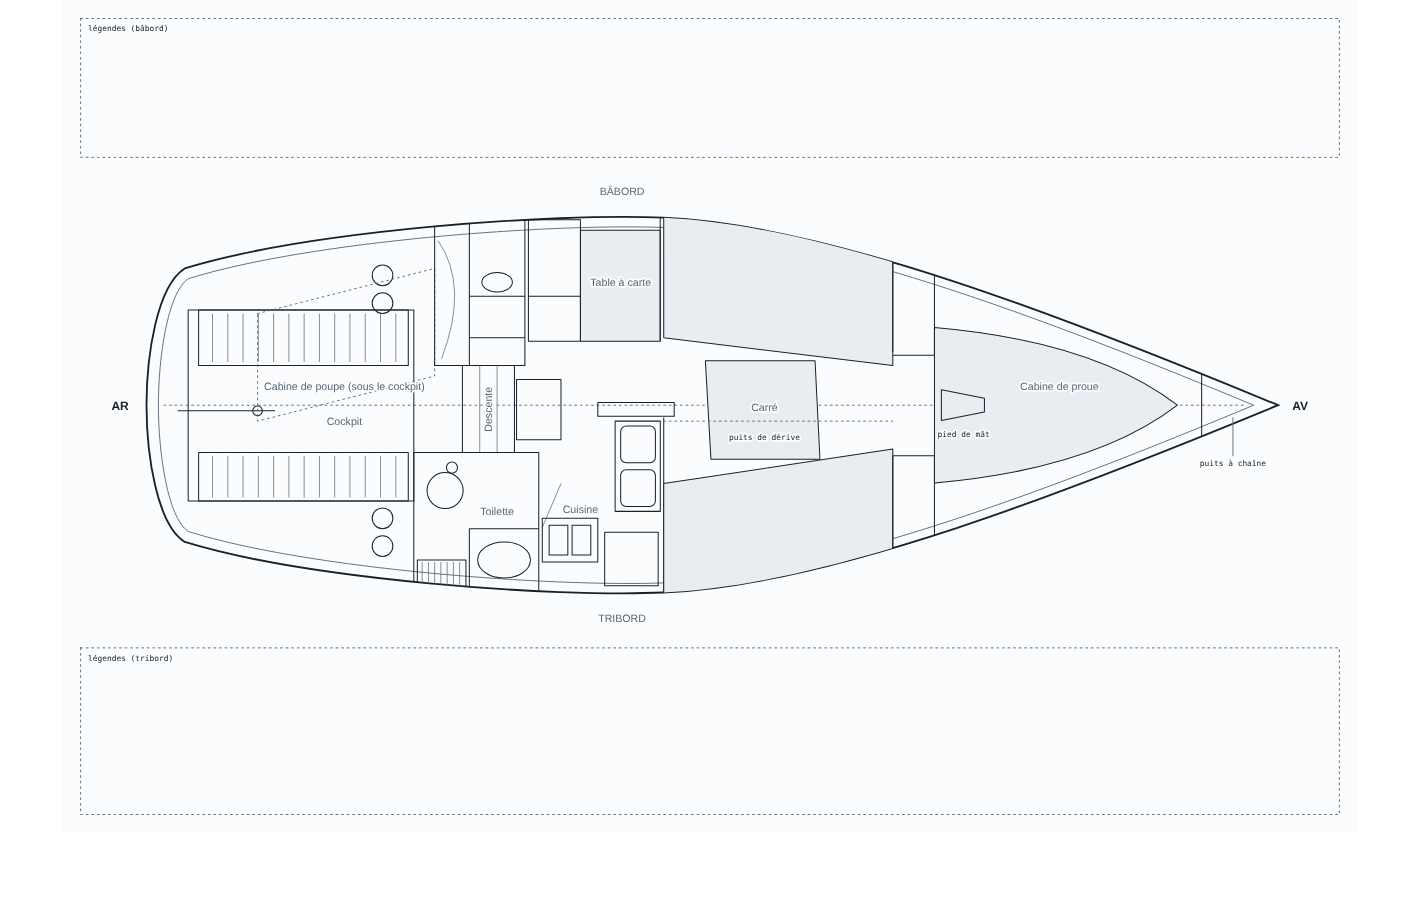
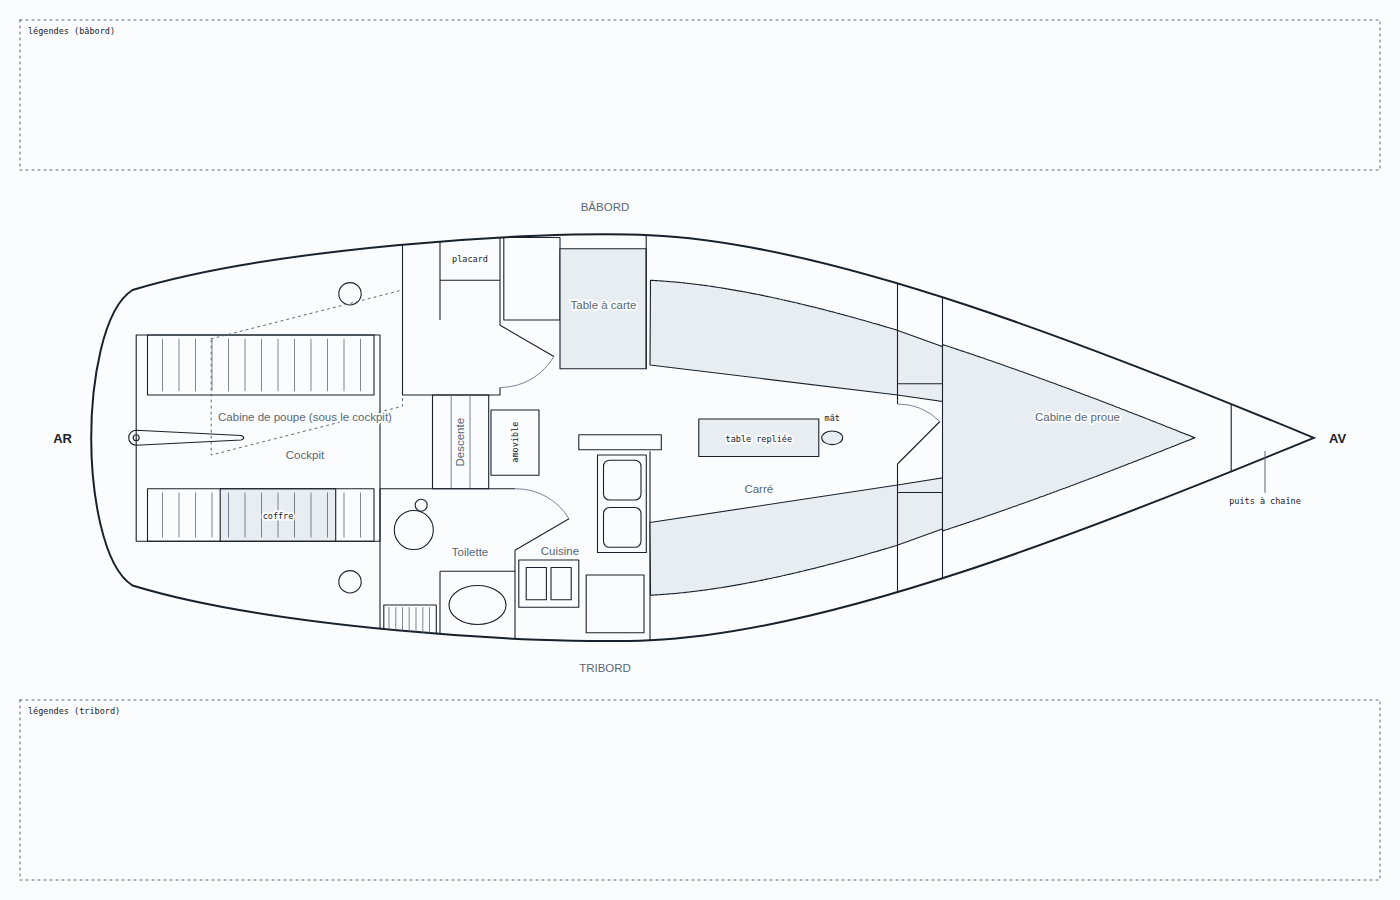
Plan de bord : fond de plan corrigé d'après les remarques du 16/10
Partie amovible de la descente nommée, lavabo de la cabine de poupe
déposé (placard conservé), coffre de cockpit tribord marqué, winches
symétriques, safran sur l'axe avec sa mèche à l'arrière, table du carré
repliée sur l'axe et mât à son bout, dossiers parallèles au bord qui se
rejoignent derrière le puits à chaîne, portes avec leur ouverture.
Retirés : arc de la couchette, trait de quille, trapèze de la cabine de
proue, liston (classe deck).

diff --git a/brouillons/plan-de-bord/plan_bord.py b/brouillons/plan-de-bord/plan_bord.py
@@ -14,7 +14,6 @@ STYLE = re.search(r"  <style>.*?</style>\n", FOLIO0.read_text(encoding="utf-8"),
 STYLE = STYLE.replace("  </style>", """    .amg{fill:none;stroke:var(--ink);stroke-width:1.1;stroke-linejoin:round}
     .amg-f{fill:var(--zone);stroke:var(--ink);stroke-width:1.1;stroke-linejoin:round}
     .amg-l{fill:none;stroke:var(--muted);stroke-width:.8}
-    .deck{fill:none;stroke:var(--muted);stroke-width:1}
     .halo{paint-order:stroke;stroke:var(--sheet);stroke-width:4px;stroke-linejoin:round}
   </style>""")
 
@@ -67,61 +66,87 @@ coque = (f"M{P(15, CY)} C{P(15, 250)}, {P(30, 150)}, {P(*h[0])} "
          f"C{P(*h[1])}, {P(*h[2])}, {P(*h[3])} C{P(*h[4])}, {P(*h[5])}, {P(*h[6])} "
          f"C{P(*b[5])}, {P(*b[4])}, {P(*b[3])} C{P(*b[2])}, {P(*b[1])}, {P(*b[0])} "
          f"C{P(30, M(150))}, {P(15, M(250))}, {P(15, CY)} Z")
-# liston intérieur (bord du pont), décalé de ~10 unités
-hi = [(75, 140), (250, 85), (600, 60), (760, 66), (1000, 76), (1340, 210), (1610, CY)]
-bi = [(x, M(y)) for x, y in hi]
-liston = (f"M{P(32, CY)} C{P(32, 255)}, {P(45, 160)}, {P(*hi[0])} "
-          f"C{P(*hi[1])}, {P(*hi[2])}, {P(*hi[3])} C{P(*hi[4])}, {P(*hi[5])}, {P(*hi[6])} "
-          f"C{P(*bi[5])}, {P(*bi[4])}, {P(*bi[3])} C{P(*bi[2])}, {P(*bi[1])}, {P(*bi[0])} "
-          f"C{P(45, M(160))}, {P(32, M(255))}, {P(32, CY)} Z")
+
+
+def bord_babord(n=400):
+    """Bord bâbord échantillonné, du tableau arrière à l'étrave."""
+    pts = []
+    for p0, p1, p2, p3 in ((h[0], h[1], h[2], h[3]), (h[3], h[4], h[5], h[6])):
+        for i in range(n):
+            t = i / n
+            pts.append(tuple((1-t)**3*a + 3*(1-t)**2*t*b_ + 3*(1-t)*t**2*c + t**3*d
+                             for a, b_, c, d in zip(p0, p1, p2, p3)))
+    return pts + [h[6]]
+
+
+def dossier(x0, x1, d=60):
+    """Trait de dossier bâbord, parallèle au bord à la distance d, de x0 à x1.
+    S'arrête sur l'axe s'il l'atteint avant x1 (les deux bords se rejoignent)."""
+    bord, out = bord_babord(), []
+    for (xa, ya), (xb, yb) in zip(bord, bord[1:]):
+        L = ((xb-xa)**2 + (yb-ya)**2) ** .5
+        x, y = xa - d*(yb-ya)/L, ya + d*(xb-xa)/L   # normale vers l'intérieur
+        if y >= CY:
+            out.append((out[-1][0] + (CY-out[-1][1]) * (x-out[-1][0]) / (y-out[-1][1]), CY))
+            break
+        if x0 <= x <= x1:
+            out.append((x, y))
+    return out
+
+
+def porte(gond, ferme, ouvert):
+    """Vantail (gond → position ouverte) et arc de son ouverture (fermée → ouverte)."""
+    r = K * ((ferme[0]-gond[0])**2 + (ferme[1]-gond[1])**2) ** .5
+    sens = 1 if ((ferme[0]-gond[0])*(ouvert[1]-gond[1]) - (ferme[1]-gond[1])*(ouvert[0]-gond[0])) > 0 else 0
+    return (path("amg", gond, ouvert) +
+            f'<path class="amg-l" d="M{P(*ferme)} A{r:.1f} {r:.1f} 0 0 {sens} {P(*ouvert)}"/>')
+
 
 el = []
 A = el.append
 
-A('<!-- Coque et pont -->')
+A('<!-- Coque -->')
 A(f'<clipPath id="pb-coque"><path d="{coque}"/></clipPath>')
 A(f'<path class="hull" d="{coque}"/>')
 A('<g clip-path="url(#pb-coque)">')
-A(f'<path class="deck" d="{liston}"/>')
-A(path("bound", (40, CY), (1600, CY)))
 
-A('<!-- Cockpit : bancs à lattes, barre franche, winches -->')
+A('<!-- Cockpit : bancs à lattes, coffre tribord, winches, safran -->')
 A(rect("amg", 75, 185, 400, 460))
 A(rect("amg", 90, 185, 392, 265))          # banc bâbord
+A(rect("amg-f", 187, 390, 341, 460))       # couvercle du coffre tribord
 A(rect("amg", 90, 390, 392, 460))          # banc tribord
 for x in range(110, 390, 22):
     A(path("amg-l", (x, 190), (x, 260)))
     A(path("amg-l", (x, 395), (x, 455)))
-A(path("amg", (60, CY + 8), (200, CY + 8)))   # barre franche
-A(circle("amg", 175, CY + 8, 7))             # mèche du safran
-for y in (135, 175):
-    A(circle("amg", 355, y, 15))
-    A(circle("amg", 355, M(y) + 16, 15))
+for y in (130, M(130)):                      # winches, symétriques par rapport à l'axe
+    A(circle("amg", 360, y, 15))
+# safran : axe de rotation à l'arrière, plus large à l'axe que vers l'avant
+A(f'<path class="amg" d="M{P(75, CY-10)} L{P(215, CY-3)} Q{P(222, CY)} {P(215, CY+3)} '
+  f'L{P(75, CY+10)} A{K*10:.1f} {K*10:.1f} 0 0 1 {P(75, CY-10)} Z"/>')
+A(circle("amg", 75, CY, 4))                  # mèche
 A(path("bound", (175, 190), (430, 125), (430, 280), (175, 345), close=True))  # couchette sous cockpit
 
-A('<!-- Cloisons arrière du carré -->')
-A(path("amg", (430, 52), (430, 265), (560, 265), (560, 47)))
-A(path("amg", (480, 52), (480, 265)))
-A(path("amg", (480, 165), (560, 165)))
-A(path("amg", (480, 225), (560, 225)))
-A(ellipse("amg", 520, 145, 22, 14))          # lavabo
-A(f'<path class="amg-l" d="M{P(435, 85)} Q{P(480, 150)} {P(440, 255)}"/>')  # porte
+A('<!-- Accès à la cabine de poupe : passage, placard, porte -->')
+A(path("amg", (560, 255), (560, 265), (430, 265), (430, 52)))
+A(path("amg", (560, 172), (560, 47)))
+A(path("amg", (480, 52), (480, 165)))
+A(path("amg", (480, 112), (560, 112)))       # placard
+A(porte((560, 172), (560, 255), (631.9, 213.5)))
 
 A('<!-- Table à carte et son siège -->')
-A(rect("amg", 565, 55, 640, 230))
-A(path("amg", (565, 165), (640, 165)))
+A(rect("amg", 565, 55, 640, 165))
 A(rect("amg-f", 640, 70, 755, 230))
 A(path("amg", (755, 50), (755, 230)))
 
-A('<!-- Descente et capot moteur -->')
+A('<!-- Descente et sa partie amovible (accès au moteur) -->')
 A(rect("amg", 470, 265, 545, 390))
 for x in (495, 520):
     A(path("amg-l", (x, 265), (x, 390)))
 A(rect("amg", 548, 285, 612, 372))
 
 A('<!-- Cabinet de toilette (tribord) -->')
-A(path("amg", (400, 390), (580, 390), (580, 598)))
-A(path("amg", (400, 390), (400, 598)))
+A(path("amg", (400, 598), (400, 390), (580, 390)))
+A(path("amg", (580, 472), (580, 598)))
 A(path("amg", (480, 500), (580, 500)))
 A(path("amg", (480, 500), (480, 598)))
 A(circle("amg", 445, 445, 26))               # WC
@@ -130,7 +155,7 @@ A(ellipse("amg", 530, 545, 38, 26))          # lavabo
 A(rect("amg", 405, 545, 475, 590))           # caillebotis
 for x in range(412, 475, 9):
     A(path("amg-l", (x, 548), (x, 587)))
-A(path("amg-l", (585, 498), (612, 435)))     # porte
+A(porte((580, 472), (580, 390), (652, 430)))
 
 A('<!-- Cuisine (tribord) -->')
 A(rect("amg", 585, 485, 665, 548))           # réchaud deux feux
@@ -143,25 +168,25 @@ A(rect("amg", 698, 415, 748, 468, rx=6))
 A(rect("amg", 665, 318, 775, 338))           # plan de travail
 A(path("amg", (760, 340), (760, 598)))
 
-A('<!-- Carré : banquettes, table, puits de dérive -->')
-A(path("amg-f", (760, 20), (1090, 80), (1090, 265), (760, 225), close=True))
-A(path("amg-f", (760, 435), (1090, 385), (1090, 564), (760, 624), close=True))
-A(path("amg-f", (820, 258), (978, 258), (985, 400), (828, 400), close=True))   # table
-A(path("bound", (760, 345), (1090, 345)))    # puits de dérive (sous la table)
+A('<!-- Carré : banquettes (le trait côté bord est le dossier), table repliée, mât -->')
+db = dossier(760, 1090)
+A(path("amg-f", *db, (1090, 265), (760, 225), close=True))
+A(path("amg-f", *[(x, M(y)) for x, y in db], (1090, 385), (760, 435), close=True))
+A(rect("amg-f", 825, CY-25, 985, CY+25))     # table repliée, sur l'axe
+A(ellipse("amg-f", 1003, CY, 14, 9))         # mât, au bout de la table
 
-A('<!-- Cloison avant du carré, penderies -->')
-A(path("amg", (1090, 116), (1090, 245)))
-A(path("amg", (1090, 395), (1090, 528)))
-A(path("amg", (1150, 135), (1150, 250)))
-A(path("amg", (1150, 395), (1150, 512)))
-A(path("amg", (1090, 250), (1150, 250)))
-A(path("amg", (1090, 395), (1150, 395)))
+A('<!-- Cloison avant du carré, penderies, porte de la cabine de proue -->')
+A(path("amg", (1090, 40), (1090, 277)))
+A(path("amg", (1090, 357), (1090, 604)))
+A(path("amg", (1150, 40), (1150, 250), (1090, 250)))
+A(path("amg", (1150, 604), (1150, 395), (1090, 395)))
+A(porte((1090, 357), (1090, 277), (1146.6, 300.4)))
 
-A('<!-- Cabine de proue : couchette en V, pied de mât -->')
-A(f'<path class="amg-f" d="M{P(1150, 210)} Q{P(1380, 230)} {P(1500, CY)} '
-  f'Q{P(1380, M(230))} {P(1150, M(210))} Z"/>')
-A(path("amg", (1160, 300), (1222, 312), (1222, 332), (1160, 344), close=True))  # pied de mât
-A(path("amg", (1535, 268), (1535, 376)))     # cloison du puits à chaîne
+A('<!-- Cabine de proue : couchette en V entre les dossiers, qui se rejoignent derrière le puits à chaîne -->')
+dp = dossier(1150, 1700)
+A(path("amg-f", (1150, dp[0][1]), *dp, *[(x, M(y)) for x, y in reversed(dp[:-1])],
+       (1150, M(dp[0][1])), close=True))
+A(path("amg", (1535, 150), (1535, 494)))     # cloison du puits à chaîne
 
 A('</g>')
 # repères d'orientation et zones (provisoires)
@@ -172,16 +197,19 @@ LBL = [
     ("Descente", 512, 328, -90),
     ("Toilette", 520, 480),
     ("Cuisine", 640, 478),
-    ("Carré", 905, 330),
+    ("Carré", 905, 395),
     ("Cabine de proue", 1330, 300),
 ]
 el.append('<!-- Noms de zones (provisoires) -->')
 for s, x, y, *r in LBL:
     el.append(text("ts mid halo", x, y, s, *r))
-el.append(text("pin mid halo", 905, 372, "puits de dérive"))
+el.append(text("pin mid halo", 520, 87, "placard"))
+el.append(text("pin mid halo", 584, 328, "amovible", -90))
+el.append(text("pin mid halo", 264, 430, "coffre"))
+el.append(text("pin mid halo", 905, 328, "table repliée"))
+el.append(text("pin mid halo", 1003, 300, "mât"))
 el.append(text("pin mid halo", 1580, 410, "puits à chaîne"))
 el.append(path("leader", (1580, 395), (1580, 340)))
-el.append(text("pin mid halo", 1192, 368, "pied de mât"))
 
 svg = f'''<svg xmlns="http://www.w3.org/2000/svg" viewBox="0 0 1400 900" role="img" aria-label="Plan de bord vu de dessus : aménagement intérieur et pont du Gib'Sea 31, fond de plan vierge.">
   <title>Folio 6 · Plan de bord</title>

diff --git a/brouillons/plan-de-bord/README.md b/brouillons/plan-de-bord/README.md
@@ -4,10 +4,10 @@ Nouveau folio vu de dessus recensant les objets importants du bord (fusées de d
 
 Phases :
 
-1. Fond de plan vide, redessiné d'après `plan-emmenagements-constructeur.jpg` : fait le 16/10 (`folio-6-plan-de-bord.svg`, aperçu `apercu.png`).
+1. Fond de plan vide, redessiné d'après `plan-emmenagements-constructeur.jpg` : fait le 16/10 (`folio-6-plan-de-bord.svg`, aperçu `apercu.png`), puis corrigé d'après les remarques de l'utilisateur. Écarts voulus avec le plan constructeur : lavabo de la cabine de poupe déposé (placard conservé), table du carré représentée repliée, quille et liston non dessinés. Portes avec leur ouverture : cabine de poupe, cabinet de toilette, cabine de proue.
 2. Données des objets dans le relevé : nom, description, couleur, zone, affichage sur ce plan.
 3. Légendes dessinées sur le folio.
 
-`python brouillons/plan-de-bord/plan_bord.py` régénère le SVG ; il reprend le bloc `<style>` du folio 0 et y ajoute les classes `amg`, `amg-f`, `amg-l`, `deck` et `halo`, à reporter dans tous les folios et dans `page.py` à l'intégration.
+`python brouillons/plan-de-bord/plan_bord.py` régénère le SVG ; il reprend le bloc `<style>` du folio 0 et y ajoute les classes `amg`, `amg-f`, `amg-l` et `halo`, à reporter dans tous les folios et dans `page.py` à l'intégration.
 
 Hors de `Electricité/` tant que l'emplacement définitif n'est pas décidé (proposé : `Electricité/livret/`, ou un dossier propre à l'armement) ; le vérificateur ne le contrôle donc pas encore.
